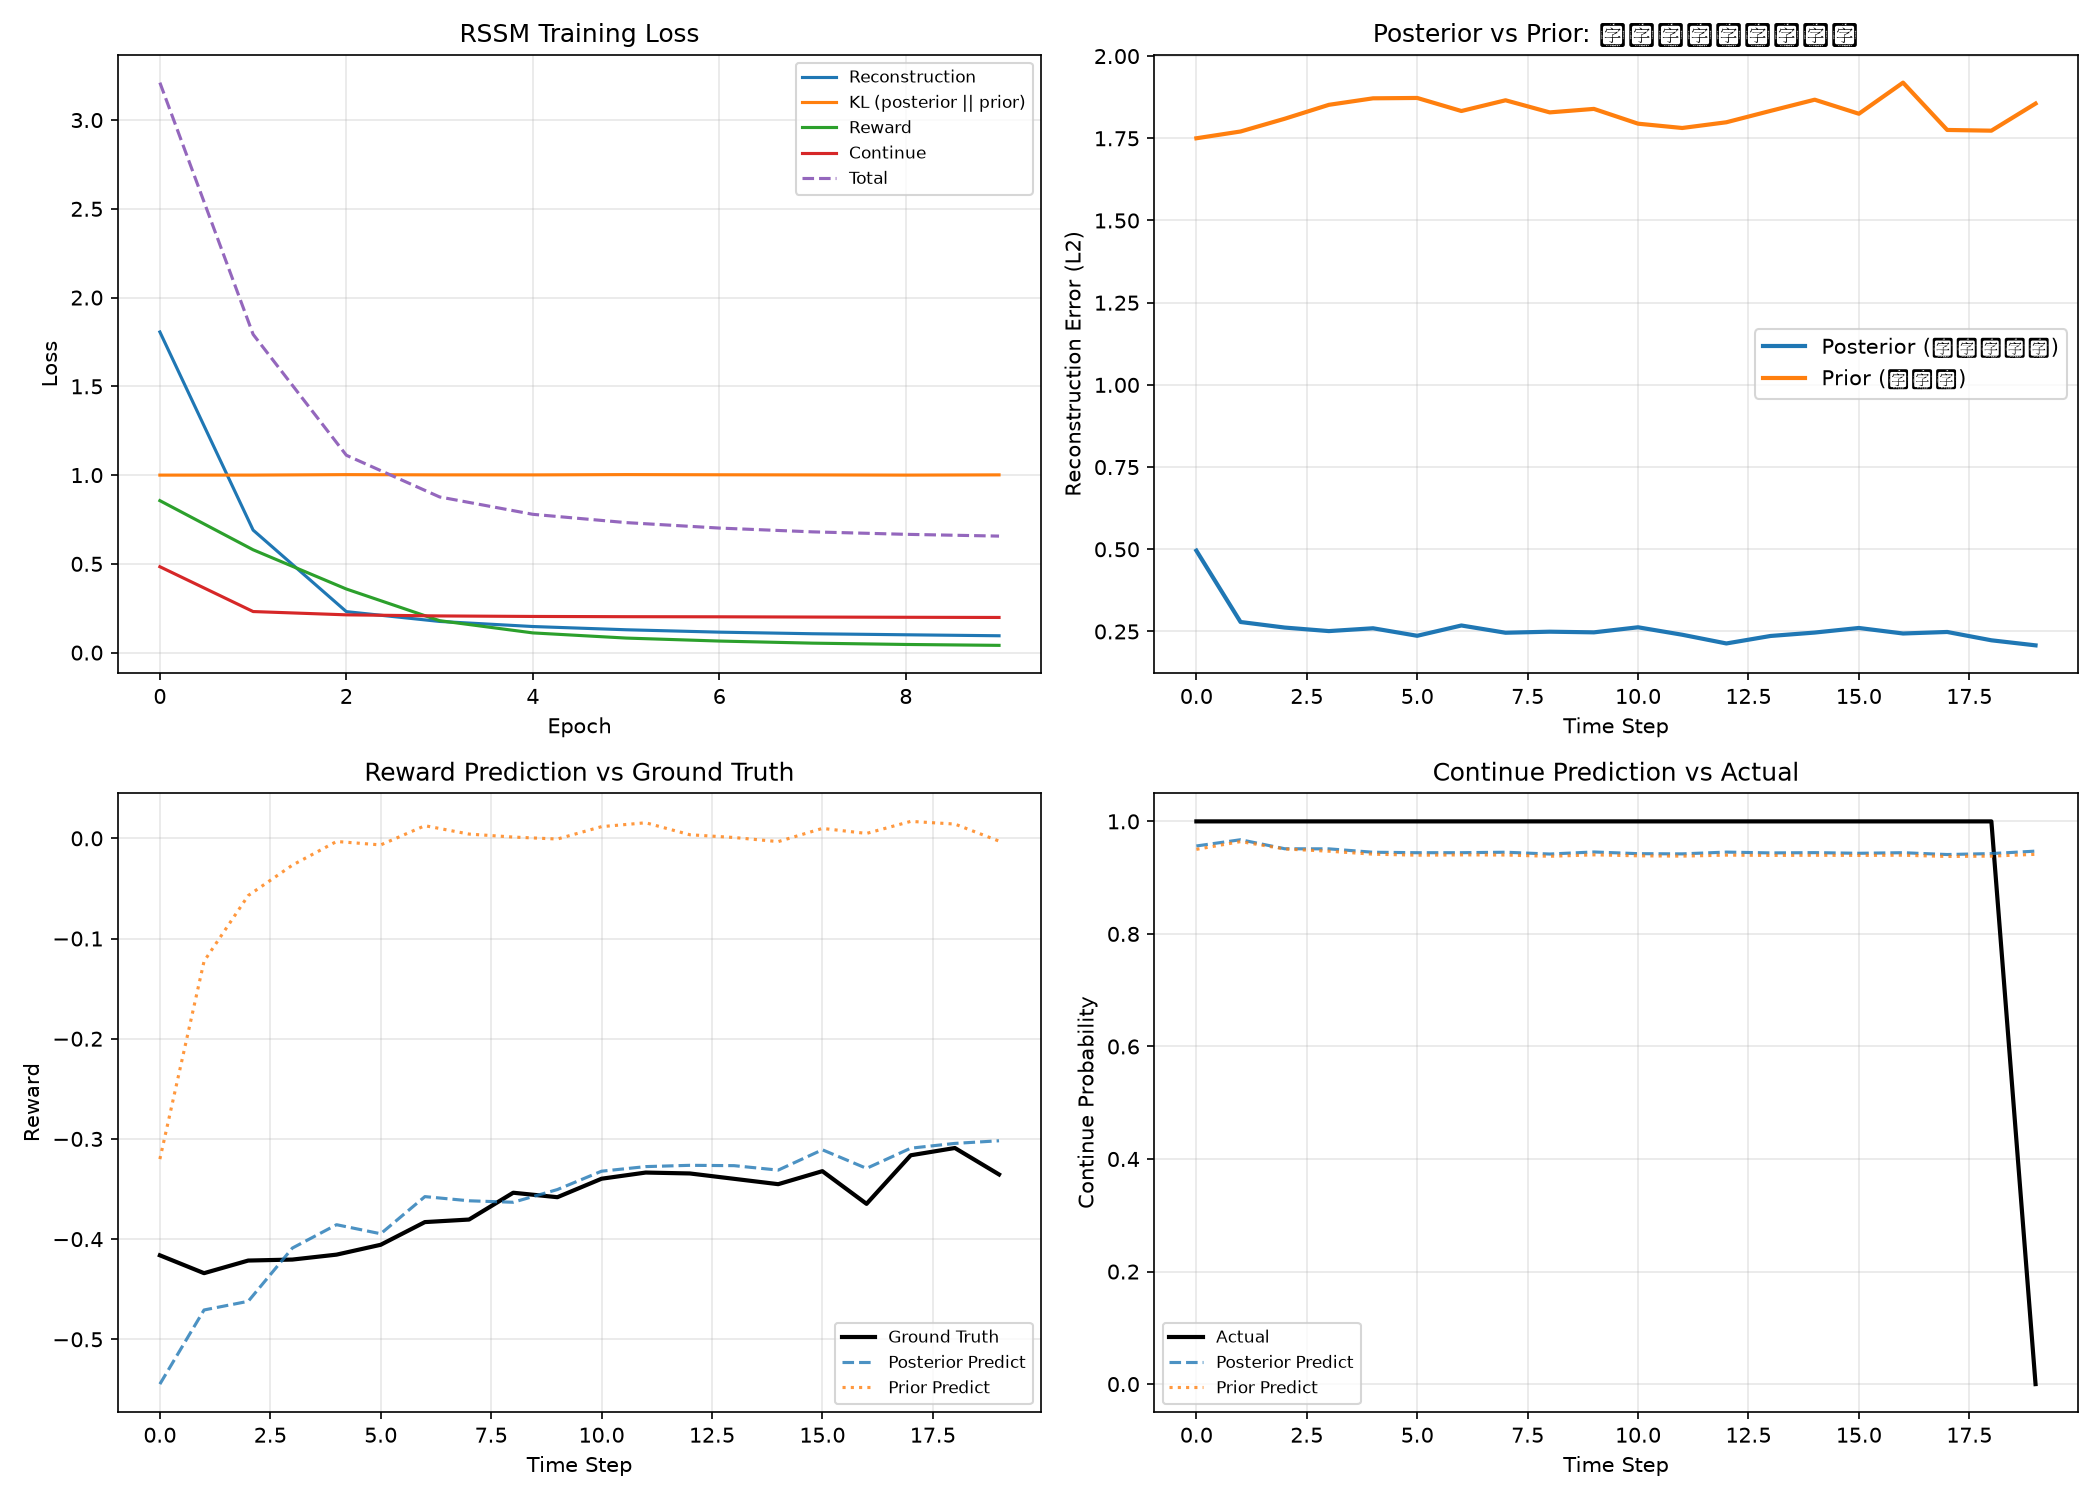
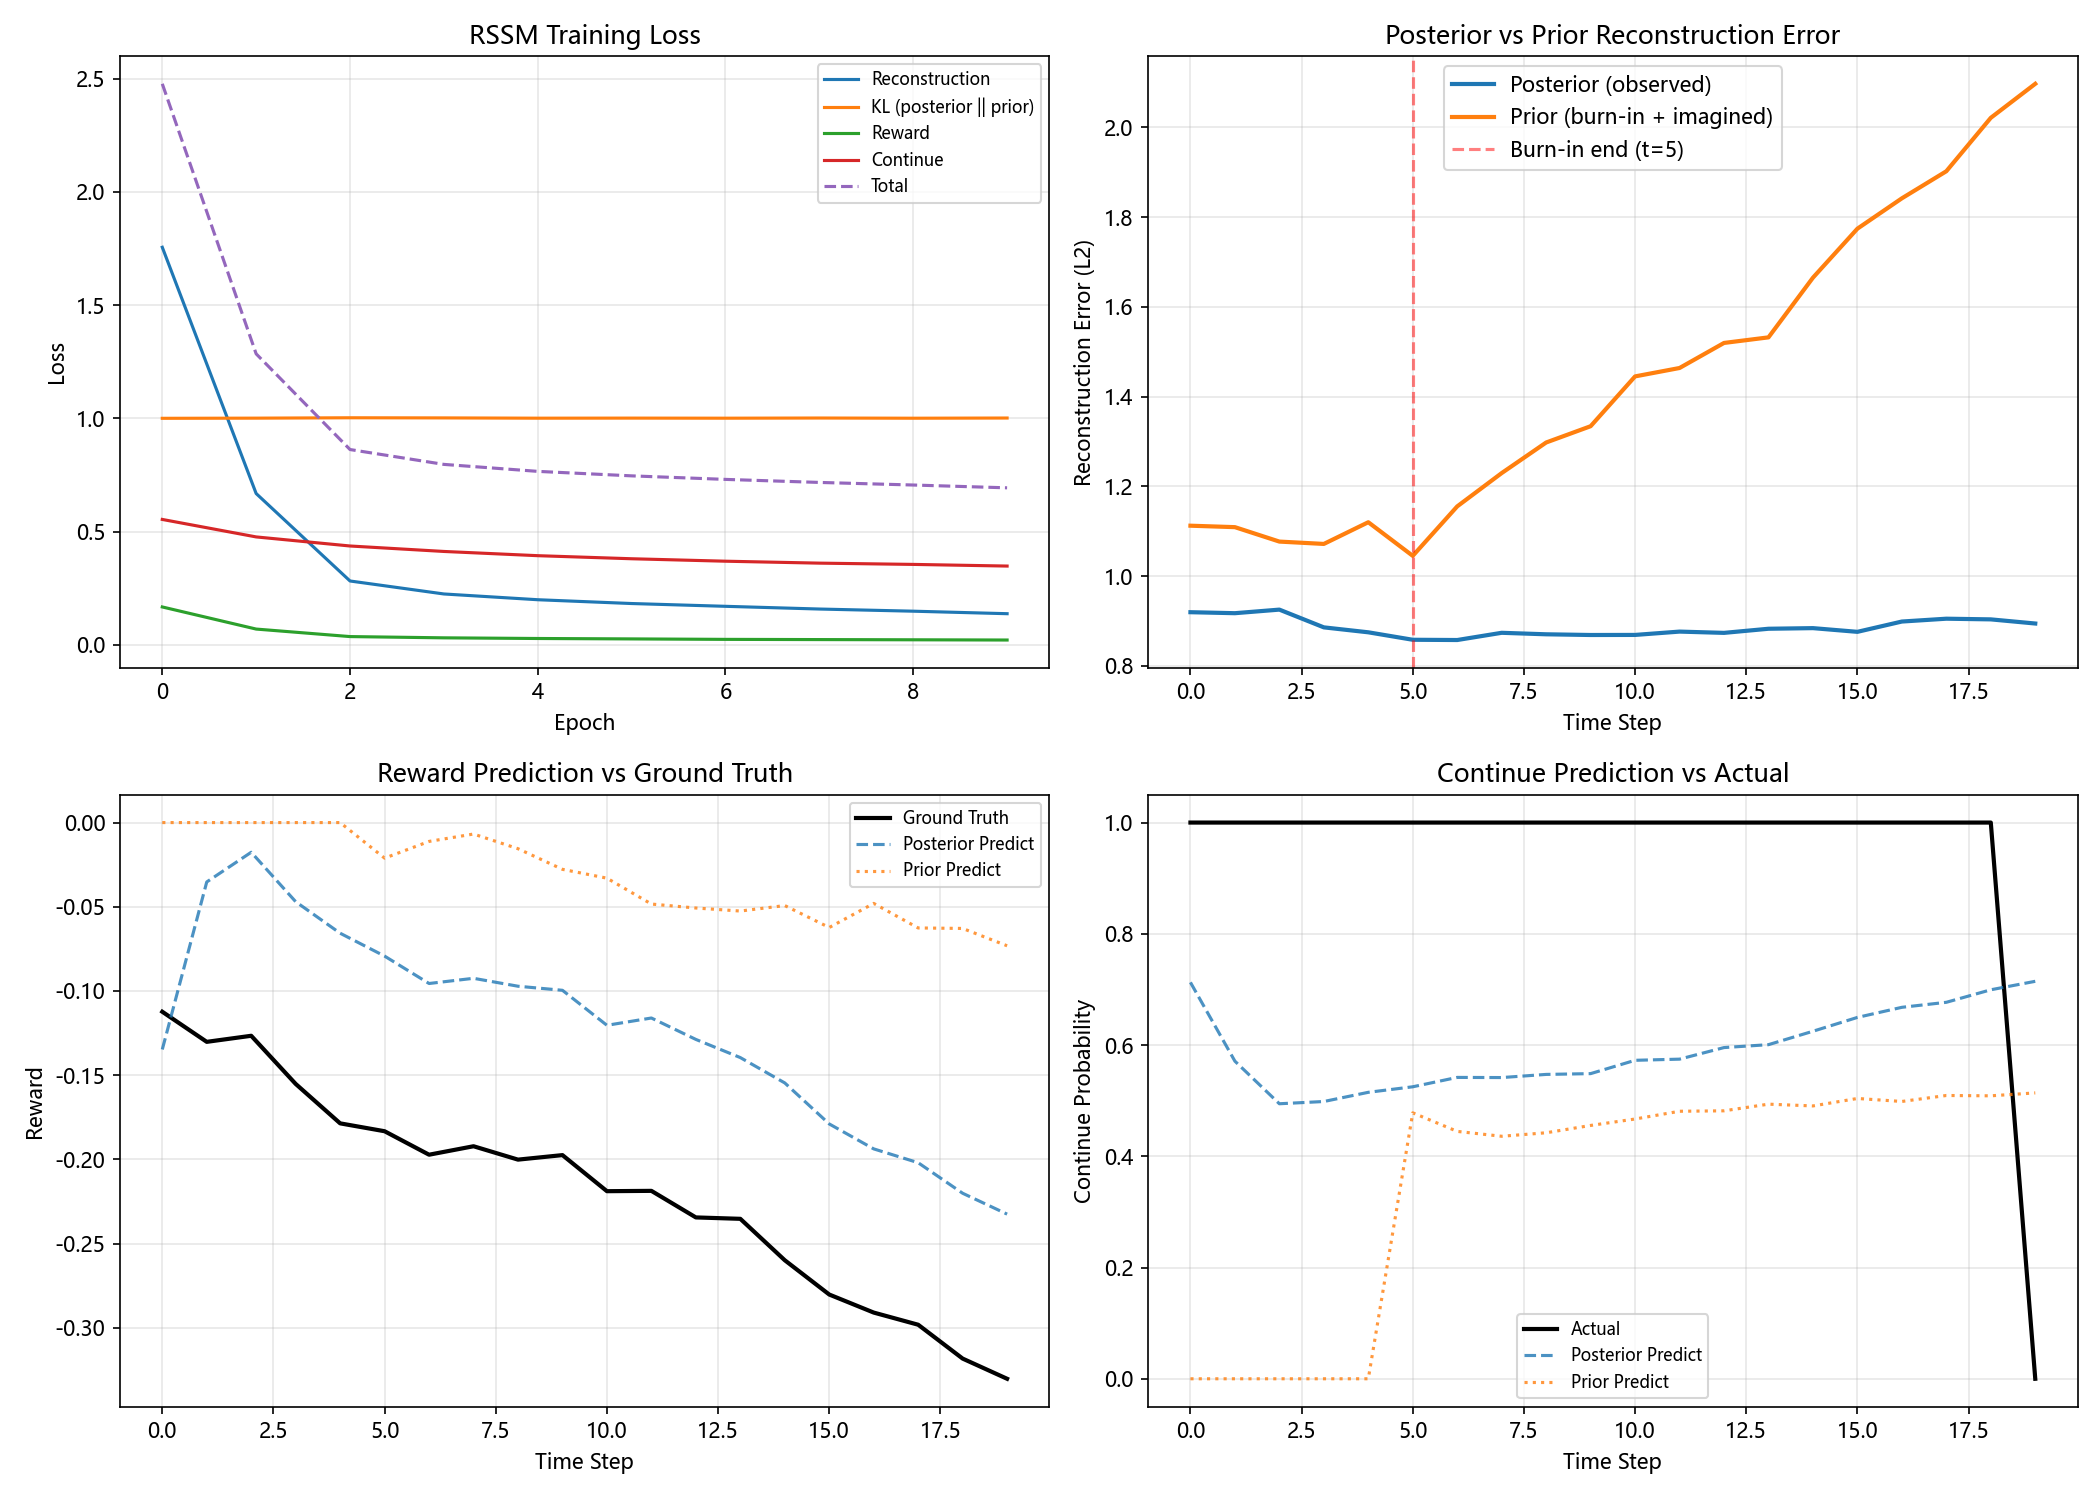
docs: fully localize Chinese README figures

diff --git a/examples/dreamer_rssm.py b/examples/dreamer_rssm.py
@@ -29,7 +29,19 @@ from pathlib import Path
 import matplotlib
 matplotlib.use("Agg")
 import matplotlib.pyplot as plt
+from matplotlib import font_manager
 from torch.utils.data import Dataset, DataLoader, random_split
+
+
+def configure_chinese_font():
+    """Register an available CJK font before rendering bilingual figures."""
+    font_path = Path("C:/Windows/Fonts/msyh.ttc")
+    if font_path.exists():
+        font_manager.fontManager.addfont(font_path)
+        plt.rcParams["font.sans-serif"] = ["Microsoft YaHei", "DejaVu Sans"]
+    else:
+        plt.rcParams["font.sans-serif"] = ["Noto Sans CJK SC", "SimHei", "DejaVu Sans"]
+    plt.rcParams["axes.unicode_minus"] = False
 
 
 # ============================================================
@@ -576,6 +588,7 @@ def visualize_rssm(history, post_err, pri_err,
                    post_rewards, pri_rewards, gt_rewards,
                    post_continues, pri_continues, gt_continues):
     """可视化训练过程和 Posterior vs Prior 对比（2x2 布局）。"""
+    configure_chinese_font()
     fig, axes = plt.subplots(2, 2, figsize=(14, 10))
 
     # [0,0]: 损失曲线（含 reward_loss 和 continue_loss）
@@ -594,15 +607,15 @@ def visualize_rssm(history, post_err, pri_err,
     # [0,1]: Posterior vs Prior 重建误差
     ax = axes[0, 1]
     steps = range(len(post_err))
-    ax.plot(steps, post_err, label="Posterior (用真实观测)", linewidth=2)
-    ax.plot(steps, pri_err, label="Prior (burn-in + 想象)", linewidth=2)
+    ax.plot(steps, post_err, label="Posterior (observed)", linewidth=2)
+    ax.plot(steps, pri_err, label="Prior (burn-in + imagined)", linewidth=2)
     # 标注 burn-in 与 prior rollout 的分界
     burn_in = 5
     if burn_in < len(post_err):
         ax.axvline(x=burn_in, color="red", linestyle="--", alpha=0.5, label=f"Burn-in end (t={burn_in})")
     ax.set_xlabel("Time Step")
     ax.set_ylabel("Reconstruction Error (L2)")
-    ax.set_title("Posterior vs Prior: 重建误差 (burn-in 后为纯 prior)")
+    ax.set_title("Posterior vs Prior Reconstruction Error")
     ax.legend()
     ax.grid(True, alpha=0.3)
 
@@ -633,7 +646,71 @@ def visualize_rssm(history, post_err, pri_err,
     out_dir = Path(__file__).parent.parent / "results" / "world_model"
     out_dir.mkdir(parents=True, exist_ok=True)
     plt.savefig(out_dir / "rssm_training_analysis.png", dpi=150)
+    plt.close(fig)
     print(f"\n[Saved] {out_dir / 'rssm_training_analysis.png'}")
+
+
+def visualize_rssm_cn(history, post_err, pri_err,
+                      post_rewards, pri_rewards, gt_rewards,
+                      post_continues, pri_continues, gt_continues):
+    """使用与英文图完全相同的数据生成中文 RSSM 分析图。"""
+    configure_chinese_font()
+    fig, axes = plt.subplots(2, 2, figsize=(14, 10))
+
+    ax = axes[0, 0]
+    ax.plot(history["recon_loss"], label="重建损失")
+    ax.plot(history["kl_loss"], label="KL（后验 || 先验）")
+    ax.plot(history["reward_loss"], label="奖励损失")
+    ax.plot(history["continue_loss"], label="继续概率损失")
+    ax.plot(history["total_loss"], label="总损失", linestyle="--")
+    ax.set_xlabel("训练轮次")
+    ax.set_ylabel("损失")
+    ax.set_title("RSSM 训练损失")
+    ax.legend(fontsize=8)
+    ax.grid(True, alpha=0.3)
+
+    ax = axes[0, 1]
+    steps = range(len(post_err))
+    ax.plot(steps, post_err, label="后验（使用真实观测）", linewidth=2)
+    ax.plot(steps, pri_err, label="先验（预热后想象）", linewidth=2)
+    burn_in = 5
+    if burn_in < len(post_err):
+        ax.axvline(x=burn_in, color="red", linestyle="--", alpha=0.5,
+                   label=f"预热结束（t={burn_in}）")
+    ax.set_xlabel("时间步")
+    ax.set_ylabel("重建误差（L2）")
+    ax.set_title("后验与先验的重建误差")
+    ax.legend(fontsize=8)
+    ax.grid(True, alpha=0.3)
+
+    ax = axes[1, 0]
+    ax.plot(steps, gt_rewards, label="真实值", linewidth=2, color="black")
+    ax.plot(steps, post_rewards, label="后验预测", linewidth=1.5, linestyle="--", alpha=0.8)
+    ax.plot(steps, pri_rewards, label="先验预测", linewidth=1.5, linestyle=":", alpha=0.8)
+    ax.set_xlabel("时间步")
+    ax.set_ylabel("奖励")
+    ax.set_title("奖励预测与真实值")
+    ax.legend(fontsize=8)
+    ax.grid(True, alpha=0.3)
+
+    ax = axes[1, 1]
+    ax.plot(steps, gt_continues, label="真实值", linewidth=2, color="black")
+    ax.plot(steps, post_continues, label="后验预测", linewidth=1.5, linestyle="--", alpha=0.8)
+    ax.plot(steps, pri_continues, label="先验预测", linewidth=1.5, linestyle=":", alpha=0.8)
+    ax.set_xlabel("时间步")
+    ax.set_ylabel("继续概率")
+    ax.set_title("继续概率预测与真实值")
+    ax.legend(fontsize=8)
+    ax.set_ylim(-0.05, 1.05)
+    ax.grid(True, alpha=0.3)
+
+    plt.tight_layout()
+    out_dir = Path(__file__).parent.parent / "results" / "world_model"
+    out_dir.mkdir(parents=True, exist_ok=True)
+    out_path = out_dir / "rssm_training_analysis-cn.png"
+    plt.savefig(out_path, dpi=150)
+    plt.close(fig)
+    print(f"\n[Saved] {out_path}")
 
 
 # ============================================================
@@ -649,6 +726,10 @@ def main():
     parser.add_argument("--deter_dim", type=int, default=64)
     parser.add_argument("--seq_len", type=int, default=20)
     args = parser.parse_args()
+
+    # Keep the checked-in English and Chinese figures reproducible.
+    torch.manual_seed(42)
+    np.random.seed(42)
 
     print("=" * 60)
     print("Dreamer V3 RSSM (Recurrent State-Space Model) Demo")
@@ -776,6 +857,9 @@ def main():
     visualize_rssm(history, vis_result["post_err"], vis_result["pri_err"],
                     vis_result["post_rewards"], vis_result["pri_rewards"], vis_result["gt_rewards"],
                     vis_result["post_continues"], vis_result["pri_continues"], vis_result["gt_continues"])
+    visualize_rssm_cn(history, vis_result["post_err"], vis_result["pri_err"],
+                       vis_result["post_rewards"], vis_result["pri_rewards"], vis_result["gt_rewards"],
+                       vis_result["post_continues"], vis_result["pri_continues"], vis_result["gt_continues"])
 
     # --- 6. 总结 ---
     print("\n" + "=" * 60)

diff --git a/examples/world_model_vla_pipeline.py b/examples/world_model_vla_pipeline.py
@@ -24,6 +24,7 @@ from pathlib import Path
 import matplotlib
 matplotlib.use("Agg")
 import matplotlib.pyplot as plt
+from matplotlib import font_manager
 from torch.utils.data import Dataset, DataLoader
 
 
@@ -489,6 +490,7 @@ class WorldModelPolicyPipeline:
         # 对比可视化
         if plot:
             self._plot_results(results)
+            self._plot_results_cn(results)
         return results
 
     def _plot_results(self, results):
@@ -522,6 +524,44 @@ class WorldModelPolicyPipeline:
         out_dir.mkdir(parents=True, exist_ok=True)
         plt.savefig(out_dir / "wm_vla_fusion_comparison.png", dpi=150)
         print(f"\n[Saved] {out_dir / 'wm_vla_fusion_comparison.png'}")
+
+    def _plot_results_cn(self, results):
+        """使用与英文图相同的结果生成中文融合策略对比图。"""
+        font_path = Path("C:/Windows/Fonts/msyh.ttc")
+        if font_path.exists():
+            font_manager.fontManager.addfont(font_path)
+            plt.rcParams["font.sans-serif"] = ["Microsoft YaHei", "DejaVu Sans"]
+        else:
+            plt.rcParams["font.sans-serif"] = ["Noto Sans CJK SC", "SimHei", "DejaVu Sans"]
+        plt.rcParams["axes.unicode_minus"] = False
+        label_map = {
+            "BC Baseline": "BC 基线",
+            "WM Data Gen": "WM 数据生成",
+            "WM Evaluator": "WM 评估器",
+            "WM Planner": "WM 规划器",
+            "Latent BC": "潜空间 BC",
+        }
+        fig, ax = plt.subplots(figsize=(10, 5))
+        names = [label_map.get(n, n) for n in results.keys()]
+        values = list(results.values())
+        colors = ["#6c757d", "#0d6efd", "#198754", "#ffc107", "#dc3545"]
+        bars = ax.bar(names, values, color=colors[:len(names)], edgecolor="white", linewidth=1.5)
+        ax.set_ylabel("平均奖励（越高越好）")
+        ax.set_title("世界模型 + 策略：五种融合方式对比")
+        ax.tick_params(axis="x", rotation=12)
+        for label in ax.get_xticklabels():
+            label.set_horizontalalignment("right")
+        for bar, val in zip(bars, values):
+            ax.text(bar.get_x() + bar.get_width() / 2, bar.get_height() + 0.05,
+                    f"{val:.2f}", ha="center", va="bottom", fontweight="bold")
+        ax.grid(axis="y", alpha=0.3)
+        plt.tight_layout()
+        out_dir = Path(__file__).parent.parent / "results" / "world_model"
+        out_dir.mkdir(parents=True, exist_ok=True)
+        out_path = out_dir / "wm_vla_fusion_comparison-cn.png"
+        plt.savefig(out_path, dpi=150)
+        plt.close(fig)
+        print(f"\n[Saved] {out_path}")
 
 
 # ============================================================

diff --git a/scripts/generate_rl_curves_cn.py b/scripts/generate_rl_curves_cn.py
@@ -1,0 +1,49 @@
+"""生成 README 中文版使用的教学规模强化学习曲线。"""
+
+from pathlib import Path
+
+import matplotlib.pyplot as plt
+from matplotlib import font_manager
+import numpy as np
+
+
+def main():
+    font_path = Path("C:/Windows/Fonts/msyh.ttc")
+    if font_path.exists():
+        font_manager.fontManager.addfont(font_path)
+        plt.rcParams["font.sans-serif"] = ["Microsoft YaHei", "DejaVu Sans"]
+    else:
+        plt.rcParams["font.sans-serif"] = ["Noto Sans CJK SC", "SimHei", "DejaVu Sans"]
+    plt.rcParams["axes.unicode_minus"] = False
+    rng = np.random.default_rng(seed=42)
+    episodes = np.arange(1, 501)
+    reward_mean = -50 + 55 * (1 - np.exp(-episodes / 120))
+    rewards = reward_mean + rng.normal(0, 3, size=len(episodes))
+    success_mean = 0.85 * (1 - np.exp(-episodes / 100))
+    success_rates = np.clip(success_mean + rng.normal(0, 0.03, size=len(episodes)), 0, 1)
+
+    fig, axes = plt.subplots(1, 2, figsize=(12, 4.5))
+    axes[0].plot(episodes, rewards, color="#4C78A8", alpha=0.8, linewidth=1.2)
+    axes[0].set_xlabel("训练回合")
+    axes[0].set_ylabel("回合奖励")
+    axes[0].set_title("训练过程中的回合奖励")
+    axes[1].plot(episodes, success_rates, color="#F58518", alpha=0.8, linewidth=1.2)
+    axes[1].set_xlabel("训练回合")
+    axes[1].set_ylabel("成功率")
+    axes[1].set_title("训练过程中的成功率")
+    axes[1].set_ylim(-0.05, 1.05)
+    for ax in axes:
+        ax.spines["top"].set_visible(False)
+        ax.spines["right"].set_visible(False)
+        ax.grid(alpha=0.15)
+    fig.text(0.5, 0.02, "示意曲线——并非已完成的 SAC+HER 基准结果",
+             ha="center", fontsize=10, style="italic", color="#555555")
+    fig.tight_layout(rect=[0, 0.05, 1, 1])
+    out_path = Path(__file__).resolve().parents[1] / "assets" / "demos" / "learning_curves-cn.png"
+    fig.savefig(out_path, dpi=150, bbox_inches="tight")
+    plt.close(fig)
+    print(f"Saved Chinese RL curves to {out_path}")
+
+
+if __name__ == "__main__":
+    main()
